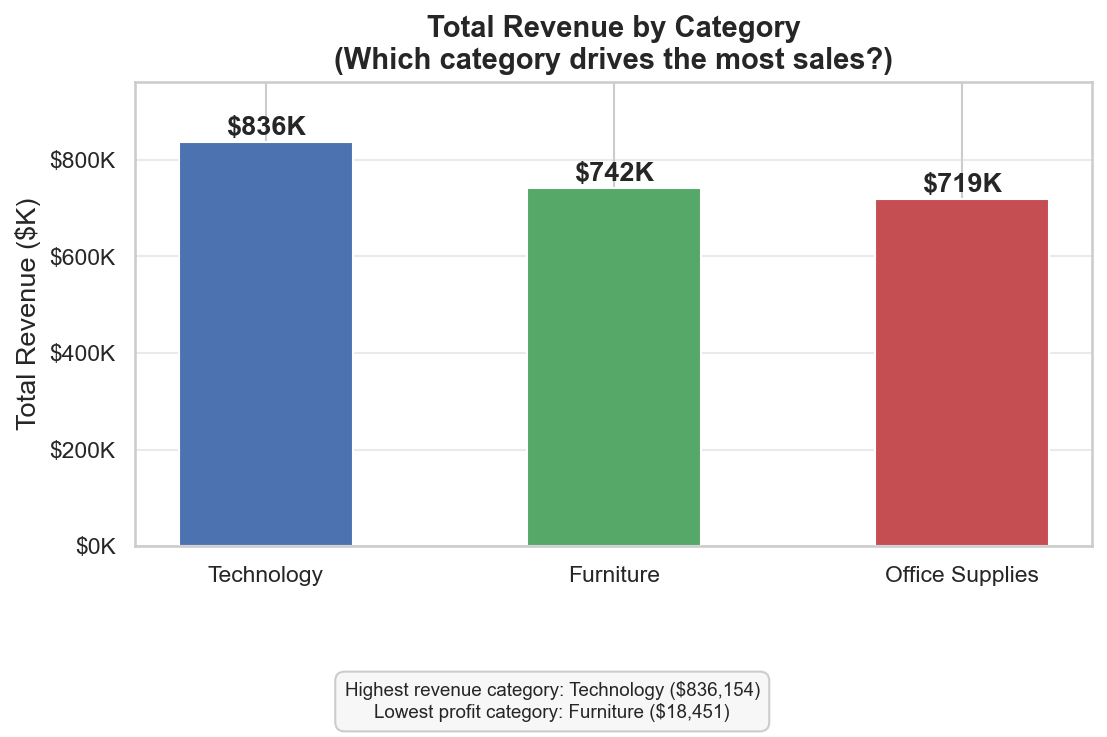
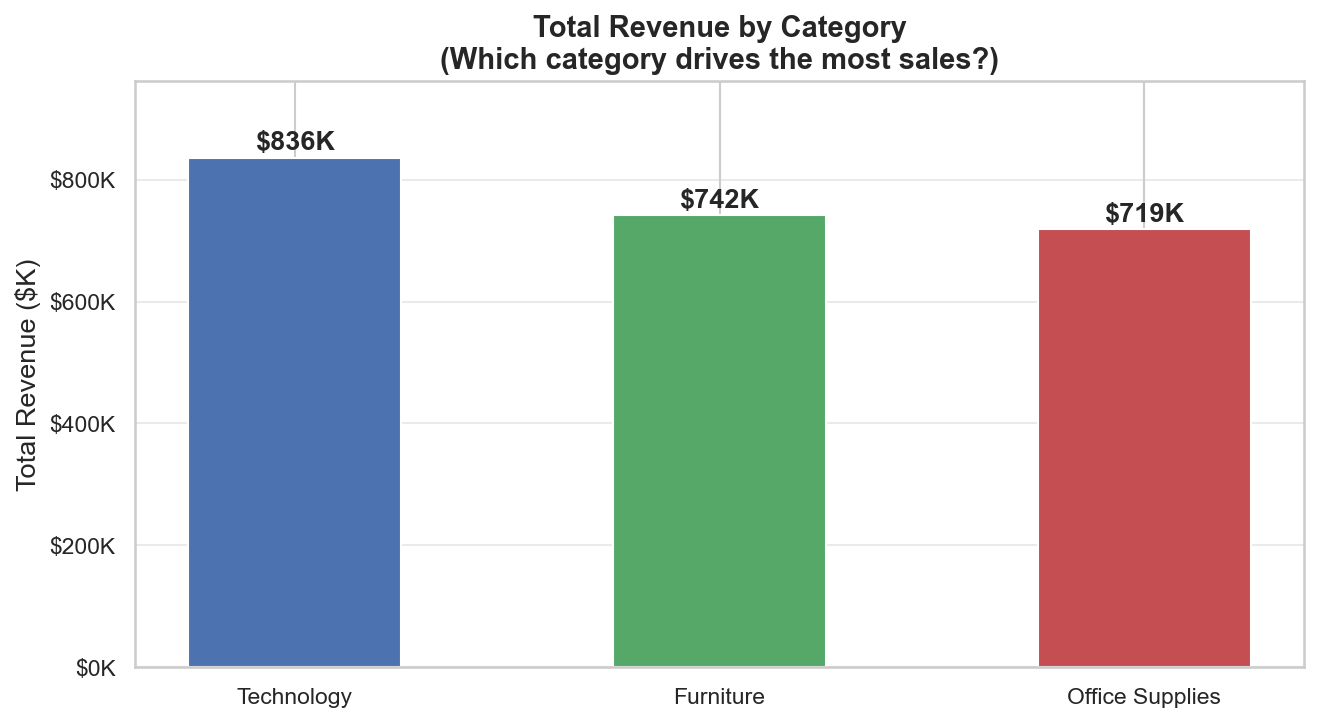
Update Task 5: Complete Sales Analysis documentation and visualizations

Changed region(s): [[0.0, 0.0914, 1.0, 1.0], [0.2764, 0.0, 0.8293, 0.1219], [0.86, 0.0914, 0.8907, 0.1219]]

diff --git a/sales_analysis.py b/sales_analysis.py
@@ -2,7 +2,7 @@
 ============================================================
   SYNENT TECHNOLOGIES – DATA SCIENCE INTERNSHIP
   Task 5: Sales Data Analysis
-  Name   : Palak
+  Name   : Palakurthy Shiva Sai Goud
   Dataset: Superstore Sales Dataset
 ============================================================
 
@@ -41,6 +41,7 @@ DATA_PATH = os.path.join(_BASE, "data", "Sample - Superstore.csv")
 sns.set_theme(style='whitegrid', palette='muted')
 plt.rcParams['figure.figsize'] = (12, 5)
 plt.rcParams['font.size'] = 12
+PALETTE = ['#4C72B0', '#55A868', '#C44E52', '#8172B2', '#CCB974', '#64B5CD']
 
 os.makedirs('data/charts', exist_ok=True)
 
@@ -230,39 +231,24 @@ print("\n   [Analysis Complete]")
 
 
 # ============================================================
-#  PHASE 4: VISUALIZATION  (5 Focused Charts)
+#  PHASE 4: VISUALIZATION  (6 Charts)
 # ============================================================
 print("\n" + "=" * 60)
 print("  PHASE 4: VISUALIZATION")
 print("=" * 60)
-print("\n   Generating 5 focused charts...")
-print("   Each graph will open on screen. Close the graph window to see the next one.\n")
-
-for file_name in os.listdir('data/charts'):
-    if file_name.lower().endswith('.png'):
-        os.remove(os.path.join('data/charts', file_name))
+print("\n   Generating charts... (close each window to continue)\n")
 
 # Larger base font for readability
-plt.rcParams['font.size'] = 10
-plt.rcParams['axes.titlesize'] = 12
-plt.rcParams['axes.labelsize'] = 10
-
-
-def add_takeaway(fig, lines):
-    """Add a simple insight note below each chart."""
-    fig.subplots_adjust(bottom=0.22)
-    fig.text(
-        0.5, 0.03, "\n".join(lines),
-        ha='center', va='bottom', fontsize=9,
-        bbox=dict(boxstyle='round,pad=0.5', facecolor='#f7f7f7', edgecolor='#cccccc')
-    )
+plt.rcParams['font.size'] = 13
+plt.rcParams['axes.titlesize'] = 15
+plt.rcParams['axes.labelsize'] = 13
 
 
 # ── OBJECTIVE 1: MONTHLY REVENUE TRENDS ─────────────────────
 
 # --- Chart 1: Monthly Revenue + Profit (dual panel) ---
-print(">> Chart 1/5: Monthly Revenue & Profit Trends")
-fig, (ax1, ax2) = plt.subplots(2, 1, figsize=(10, 6), sharex=True)
+print(">> Chart 1/6: Monthly Revenue & Profit Trends")
+fig, (ax1, ax2) = plt.subplots(2, 1, figsize=(14, 8), sharex=True)
 fig.suptitle('Monthly Revenue & Profit Trends (2014 – 2017)', fontsize=16, fontweight='bold')
 
 # Revenue line
@@ -287,28 +273,22 @@ ax2.yaxis.set_major_formatter(mticker.FuncFormatter(lambda x, _: f'${x:.0f}K'))
 ax2.set_xticks(monthly['YearMonth_str'][::step])
 ax2.set_xticklabels(monthly['YearMonth_str'][::step], rotation=45, ha='right', fontsize=11)
 ax2.grid(axis='y', alpha=0.4)
-add_takeaway(fig, [
-    f"Highest revenue month: {best_month} (${monthly['Sales'].max():,.0f})",
-    f"Lowest profit month: {worst_month} (${monthly['Profit'].min():,.0f})"
-])
 
-plt.tight_layout(rect=[0, 0.15, 1, 0.96])
+plt.tight_layout()
 plt.savefig('data/charts/01_monthly_trends.png', dpi=150, bbox_inches='tight')
 plt.show()
-plt.close(fig)
 print("   Saved: 01_monthly_trends.png")
 
 
 # ── OBJECTIVE 2: TOP-SELLING PRODUCTS ───────────────────────
 
 # --- Chart 2: Top 10 Products by Revenue ---
-print("\n>> Chart 2/5: Top 10 Products by Revenue")
+print("\n>> Chart 2/6: Top 10 Products by Revenue")
 top10_prod = df.groupby('Product_Name')['Sales'].sum().sort_values(ascending=False).head(10)
-bottom_product = df.groupby('Product_Name')['Sales'].sum().sort_values().head(1)
 # Shorten long product names for readability
 labels = [n[:40] + '…' if len(n) > 40 else n for n in top10_prod.index[::-1]]
 
-fig, ax = plt.subplots(figsize=(10, 6))
+fig, ax = plt.subplots(figsize=(13, 7))
 bars = ax.barh(labels, top10_prod.values[::-1] / 1e3,
                color=sns.color_palette('Blues_r', 10), edgecolor='white', height=0.6)
 for bar in bars:
@@ -319,24 +299,18 @@ ax.set_xlabel('Total Revenue ($K)', fontsize=13)
 ax.set_title('Top 10 Best-Selling Products by Revenue', fontsize=15, fontweight='bold', pad=12)
 ax.set_xlim(0, top10_prod.max() / 1e3 * 1.15)
 ax.grid(axis='x', alpha=0.4)
-add_takeaway(fig, [
-    f"Highest-selling product: {top10_prod.index[0][:55]} (${top10_prod.iloc[0]:,.0f})",
-    f"Lowest-selling product: {bottom_product.index[0][:55]} (${bottom_product.iloc[0]:,.0f})"
-])
-plt.tight_layout(rect=[0, 0.15, 1, 1])
+plt.tight_layout()
 plt.savefig('data/charts/02_top_products.png', dpi=150, bbox_inches='tight')
 plt.show()
-plt.close(fig)
 print("   Saved: 02_top_products.png")
 
 
-# --- Chart 3: Sales by Category ---
-print("\n>> Chart 3/5: Sales by Category")
+# --- Chart 3: Sales by Category & Sub-Category ---
+print("\n>> Chart 3/6: Sales by Category")
 cat_sales_vals = df.groupby('Category')['Sales'].sum().sort_values(ascending=False)
-cat_profit_vals = df.groupby('Category')['Profit'].sum().sort_values(ascending=False)
 cat_colors = ['#4C72B0', '#55A868', '#C44E52']
 
-fig, ax = plt.subplots(figsize=(7.5, 5))
+fig, ax = plt.subplots(figsize=(9, 5))
 bars = ax.bar(cat_sales_vals.index, cat_sales_vals.values / 1e3,
               color=cat_colors, edgecolor='white', width=0.5)
 for bar in bars:
@@ -349,25 +323,20 @@ ax.set_title('Total Revenue by Category\n(Which category drives the most sales?)
 ax.yaxis.set_major_formatter(mticker.FuncFormatter(lambda x, _: f'${x:.0f}K'))
 ax.set_ylim(0, cat_sales_vals.max() / 1e3 * 1.15)
 ax.grid(axis='y', alpha=0.4)
-add_takeaway(fig, [
-    f"Highest revenue category: {cat_sales_vals.idxmax()} (${cat_sales_vals.max():,.0f})",
-    f"Lowest profit category: {cat_profit_vals.idxmin()} (${cat_profit_vals.min():,.0f})"
-])
-plt.tight_layout(rect=[0, 0.18, 1, 1])
+plt.tight_layout()
 plt.savefig('data/charts/03_category_revenue.png', dpi=150, bbox_inches='tight')
 plt.show()
-plt.close(fig)
 print("   Saved: 03_category_revenue.png")
 
 
 # ── OBJECTIVE 3: PROFIT ANALYSIS ────────────────────────────
 
 # --- Chart 4: Profit by Sub-Category (all, sorted, green/red) ---
-print("\n>> Chart 4/5: Profit by Sub-Category")
+print("\n>> Chart 4/6: Profit by Sub-Category")
 sub_prof = df.groupby('Sub_Category')['Profit'].sum().sort_values()
 bar_colors4 = ['#e05c5c' if v < 0 else '#4caf7d' for v in sub_prof.values]
 
-fig, ax = plt.subplots(figsize=(10, 6.5))
+fig, ax = plt.subplots(figsize=(12, 7))
 bars = ax.barh(sub_prof.index, sub_prof.values / 1e3,
                color=bar_colors4, edgecolor='white', height=0.65)
 ax.axvline(0, color='black', linewidth=1.2)
@@ -381,25 +350,42 @@ ax.set_xlabel('Total Profit ($K)', fontsize=13)
 ax.set_title('Profit by Sub-Category\n(Red bars = LOSS  |  Green bars = PROFIT)',
              fontsize=14, fontweight='bold')
 ax.grid(axis='x', alpha=0.3)
-add_takeaway(fig, [
-    f"Most profitable sub-category: {sub_prof.idxmax()} (${sub_prof.max():,.0f})",
-    f"Biggest loss sub-category: {sub_prof.idxmin()} (${sub_prof.min():,.0f})"
-])
-plt.tight_layout(rect=[0, 0.16, 1, 1])
+plt.tight_layout()
 plt.savefig('data/charts/04_subcategory_profit.png', dpi=150, bbox_inches='tight')
 plt.show()
-plt.close(fig)
 print("   Saved: 04_subcategory_profit.png")
 
 
-# --- Chart 5: Discount Impact on Profit Margin ---
-print("\n>> Chart 5/5: Discount Impact on Profit Margin")
+# --- Chart 5: Profit Margin by Category ---
+print("\n>> Chart 5/6: Profit Margin by Category")
+cat_margin = df.groupby('Category')['Profit_Margin'].mean().sort_values(ascending=False)
+
+fig, ax = plt.subplots(figsize=(9, 5))
+bars = ax.bar(cat_margin.index, cat_margin.values,
+              color=['#4caf7d' if v >= 0 else '#e05c5c' for v in cat_margin.values],
+              edgecolor='white', width=0.5)
+ax.axhline(0, color='black', linewidth=1)
+for bar in bars:
+    h = bar.get_height()
+    ax.text(bar.get_x() + bar.get_width() / 2, h + 0.3,
+            f'{h:.1f}%', ha='center', va='bottom', fontsize=13, fontweight='bold')
+ax.set_ylabel('Average Profit Margin (%)', fontsize=13)
+ax.set_title('Average Profit Margin by Category\n(Which category is most profitable per dollar sold?)',
+             fontsize=14, fontweight='bold')
+ax.set_ylim(0, cat_margin.max() * 1.25)
+ax.grid(axis='y', alpha=0.4)
+plt.tight_layout()
+plt.savefig('data/charts/05_profit_margin_category.png', dpi=150, bbox_inches='tight')
+plt.show()
+print("   Saved: 05_profit_margin_category.png")
+
+
+# --- Chart 6: Discount Impact on Profit Margin ---
+print("\n>> Chart 6/6: Discount Impact on Profit Margin")
 disc_band_avg = df.groupby('Discount_Band', observed=True)['Profit_Margin'].mean()
-best_discount_band = disc_band_avg.idxmax()
-worst_discount_band = disc_band_avg.idxmin()
 bar_colors6 = ['#4caf7d' if v >= 0 else '#e05c5c' for v in disc_band_avg.values]
 
-fig, ax = plt.subplots(figsize=(8, 5))
+fig, ax = plt.subplots(figsize=(10, 5))
 bars = ax.bar(disc_band_avg.index.astype(str), disc_band_avg.values,
               color=bar_colors6, edgecolor='white', width=0.55)
 ax.axhline(0, color='black', linewidth=1.2, linestyle='--')
@@ -411,15 +397,10 @@ ax.set_ylabel('Avg Profit Margin (%)', fontsize=13)
 ax.set_title('How Discounts Destroy Profit\n(Higher discounts = deeper losses)',
              fontsize=14, fontweight='bold')
 ax.grid(axis='y', alpha=0.4)
-add_takeaway(fig, [
-    f"Best margin discount band: {best_discount_band} ({disc_band_avg.max():.1f}%)",
-    f"Worst margin discount band: {worst_discount_band} ({disc_band_avg.min():.1f}%)"
-])
-plt.tight_layout(rect=[0, 0.18, 1, 1])
-plt.savefig('data/charts/05_discount_impact.png', dpi=150, bbox_inches='tight')
+plt.tight_layout()
+plt.savefig('data/charts/06_discount_impact.png', dpi=150, bbox_inches='tight')
 plt.show()
-plt.close(fig)
-print("   Saved: 05_discount_impact.png")
+print("   Saved: 06_discount_impact.png")
 
 print("\n   [Visualization Complete]")
 
@@ -462,6 +443,153 @@ print(f"""
 """)
 
 print("=" * 60)
-print("  5 focused charts saved in: data/charts/")
+print("  All 6 charts saved in: data/charts/")
 print("  Task 5 – Sales Data Analysis Complete!")
 print("=" * 60)
+sys.exit(0)
+
+
+
+fig, ax = plt.subplots(figsize=(14, 5))
+ax.plot(monthly['YearMonth_str'], monthly['Sales'] / 1e3,
+        color='steelblue', linewidth=2.5, marker='o', markersize=4)
+ax.fill_between(monthly['YearMonth_str'], monthly['Sales'] / 1e3,
+                alpha=0.15, color='steelblue')
+step = max(1, len(monthly) // 12)
+ax.set_xticks(monthly['YearMonth_str'][::step])
+ax.set_xticklabels(monthly['YearMonth_str'][::step], rotation=45, ha='right')
+ax.set_title('Monthly Revenue Trend', fontsize=14, pad=12)
+ax.set_xlabel('Month')
+ax.set_ylabel('Revenue ($K)')
+ax.yaxis.set_major_formatter(mticker.FuncFormatter(lambda x, _: f'${x:.0f}K'))
+plt.tight_layout()
+plt.savefig('data/charts/01_monthly_revenue_trend.png', dpi=150, bbox_inches='tight')
+plt.show()
+print("   Saved: 01_monthly_revenue_trend.png")
+
+
+# --- Chart 2: Monthly Profit Trend ---
+print("\n>> Chart 2/10: Monthly Profit Trend")
+fig, ax = plt.subplots(figsize=(14, 5))
+colors_bar = ['coral' if v < 0 else 'mediumseagreen' for v in monthly['Profit']]
+ax.bar(monthly['YearMonth_str'], monthly['Profit'] / 1e3,
+       color=colors_bar, edgecolor='white', width=0.8)
+ax.axhline(0, color='black', linewidth=0.8, linestyle='--')
+ax.set_xticks(monthly['YearMonth_str'][::step])
+ax.set_xticklabels(monthly['YearMonth_str'][::step], rotation=45, ha='right')
+ax.set_title('Monthly Profit Trend (Green = Profit, Red = Loss)', fontsize=14, pad=12)
+ax.set_xlabel('Month')
+ax.set_ylabel('Profit ($K)')
+ax.yaxis.set_major_formatter(mticker.FuncFormatter(lambda x, _: f'${x:.0f}K'))
+plt.tight_layout()
+plt.savefig('data/charts/02_monthly_profit_trend.png', dpi=150, bbox_inches='tight')
+plt.show()
+print("   Saved: 02_monthly_profit_trend.png")
+
+
+# --- Chart 3: Sales by Category (Pie + Bar) ---
+print("\n>> Chart 3/10: Sales by Category")
+fig, axes = plt.subplots(1, 2, figsize=(14, 5))
+cat_sales = df.groupby('Category')['Sales'].sum().sort_values(ascending=False)
+axes[0].pie(cat_sales, labels=cat_sales.index, autopct='%1.1f%%',
+            colors=PALETTE[:len(cat_sales)],
+            wedgeprops=dict(edgecolor='white', linewidth=1.5), startangle=140)
+axes[0].set_title('Revenue Share by Category', fontsize=13)
+cat_profit = df.groupby('Category')['Profit'].sum().sort_values(ascending=False)
+bars = axes[1].bar(cat_profit.index, cat_profit.values / 1e3,
+                   color=PALETTE[:len(cat_profit)], edgecolor='white', width=0.5)
+for bar in bars:
+    h = bar.get_height()
+    axes[1].text(bar.get_x() + bar.get_width()/2, h + 0.5,
+                 f'${h:.1f}K', ha='center', va='bottom', fontsize=10)
+axes[1].set_title('Total Profit by Category', fontsize=13)
+axes[1].set_ylabel('Profit ($K)')
+axes[1].yaxis.set_major_formatter(mticker.FuncFormatter(lambda x, _: f'${x:.0f}K'))
+plt.suptitle('Category Performance Overview', fontsize=14, y=1.01)
+plt.tight_layout()
+plt.savefig('data/charts/03_category_performance.png', dpi=150, bbox_inches='tight')
+plt.show()
+print("   Saved: 03_category_performance.png")
+
+
+# --- Chart 4: Top 10 Sub-Categories by Sales ---
+print("\n>> Chart 4/10: Top 10 Sub-Categories by Sales")
+sub_sales = df.groupby('Sub_Category')['Sales'].sum().sort_values(ascending=False).head(10)
+plt.figure(figsize=(11, 5))
+bars = plt.barh(sub_sales.index[::-1], sub_sales.values[::-1] / 1e3,
+                color=sns.color_palette('Blues_r', len(sub_sales)), edgecolor='white')
+for bar in bars:
+    w = bar.get_width()
+    plt.text(w + 0.5, bar.get_y() + bar.get_height()/2,
+             f'${w:.1f}K', va='center', fontsize=9)
+plt.xlabel('Total Sales ($K)')
+plt.title('Top 10 Sub-Categories by Sales Revenue', fontsize=13)
+plt.tight_layout()
+plt.savefig('data/charts/04_subcategory_sales.png', dpi=150, bbox_inches='tight')
+plt.show()
+print("   Saved: 04_subcategory_sales.png")
+
+
+# --- Chart 5: Profit by Sub-Category (Loss in red) ---
+print("\n>> Chart 5/10: Profit by Sub-Category")
+sub_prof = df.groupby('Sub_Category')['Profit'].sum().sort_values()
+colors5  = ['coral' if v < 0 else 'mediumseagreen' for v in sub_prof.values]
+plt.figure(figsize=(12, 6))
+bars = plt.barh(sub_prof.index, sub_prof.values / 1e3, color=colors5, edgecolor='white')
+plt.axvline(0, color='black', linewidth=0.8)
+for bar in bars:
+    w = bar.get_width()
+    x_pos = w + 0.2 if w >= 0 else w - 0.2
+    ha = 'left' if w >= 0 else 'right'
+    plt.text(x_pos, bar.get_y() + bar.get_height()/2,
+             f'${w:.1f}K', va='center', ha=ha, fontsize=8)
+plt.xlabel('Total Profit ($K)')
+plt.title('Profit by Sub-Category  (Red = Loss, Green = Profit)', fontsize=13)
+plt.tight_layout()
+plt.savefig('data/charts/05_subcategory_profit.png', dpi=150, bbox_inches='tight')
+plt.show()
+print("   Saved: 05_subcategory_profit.png")
+
+
+# --- Chart 6: Sales vs Profit Scatter ---
+print("\n>> Chart 6/10: Sales vs Profit Scatter")
+plt.figure(figsize=(10, 6))
+for cat in df['Category'].unique():
+    sub = df[df['Category'] == cat]
+    plt.scatter(sub['Sales'], sub['Profit'], alpha=0.35, s=20, label=cat)
+plt.axhline(0, color='red', linewidth=1, linestyle='--', label='Break-even')
+plt.xlabel('Sales ($)')
+plt.ylabel('Profit ($)')
+plt.title('Sales vs Profit by Category', fontsize=13)
+plt.legend(fontsize=10)
+plt.tight_layout()
+plt.savefig('data/charts/06_sales_vs_profit.png', dpi=150, bbox_inches='tight')
+plt.show()
+print("   Saved: 06_sales_vs_profit.png")
+
+
+# --- Chart 7: Regional Performance ---
+print("\n>> Chart 7/10: Regional Sales & Profit")
+if 'Region' in df.columns:
+    region_df = df.groupby('Region')[['Sales', 'Profit']].sum().reset_index()
+    x = np.arange(len(region_df))
+    width = 0.35
+    fig, ax = plt.subplots(figsize=(10, 5))
+    b1 = ax.bar(x - width/2, region_df['Sales'] / 1e3,  width,
+                label='Sales',  color='steelblue', edgecolor='white')
+    b2 = ax.bar(x + width/2, region_df['Profit'] / 1e3, width,
+                label='Profit', color='mediumseagreen', edgecolor='white')
+    ax.set_xticks(x)
+    ax.set_xticklabels(region_df['Region'])
+    ax.set_ylabel('Amount ($K)')
+    ax.set_title('Sales & Profit by Region', fontsize=13)
+    ax.legend()
+    ax.yaxis.set_major_formatter(mticker.FuncFormatter(lambda x, _: f'${x:.0f}K'))
+    for bar in list(b1) + list(b2):
+        h = bar.get_height()
+        ax.text(bar.get_x() + bar.get_width()/2, h + 0.5,
+                f'${h:.0f}K', ha='center', va='bottom', fontsize=8)
+    plt.tight_layout()
+    plt.savefig('data/charts/07_regional_performance.png', dpi=150, bbox_inches='tight')
+    plt.show()
+    print("   Saved: 07_regional_performance.png")

diff --git a/README.md b/README.md
@@ -83,6 +83,6 @@ synent-task5-salesanalysis-palak/
 
 ## Author
 
-Palak
+Palakurthy Shiva Sai Goud
 
 Submitted for Synent Technologies Data Science Internship - Task 5.
